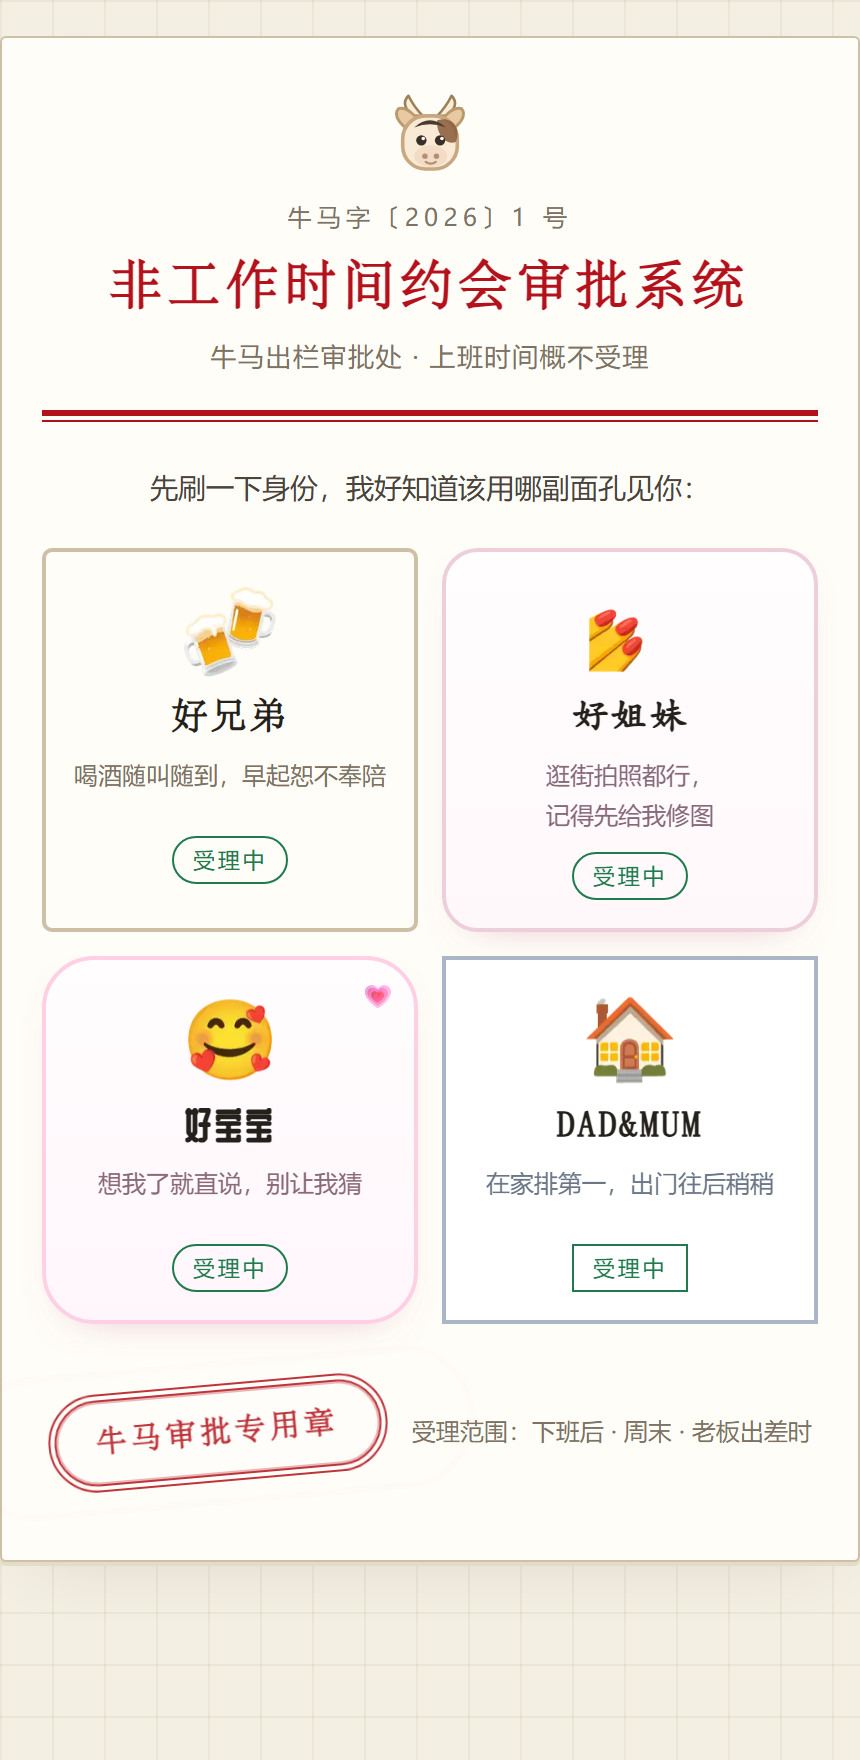
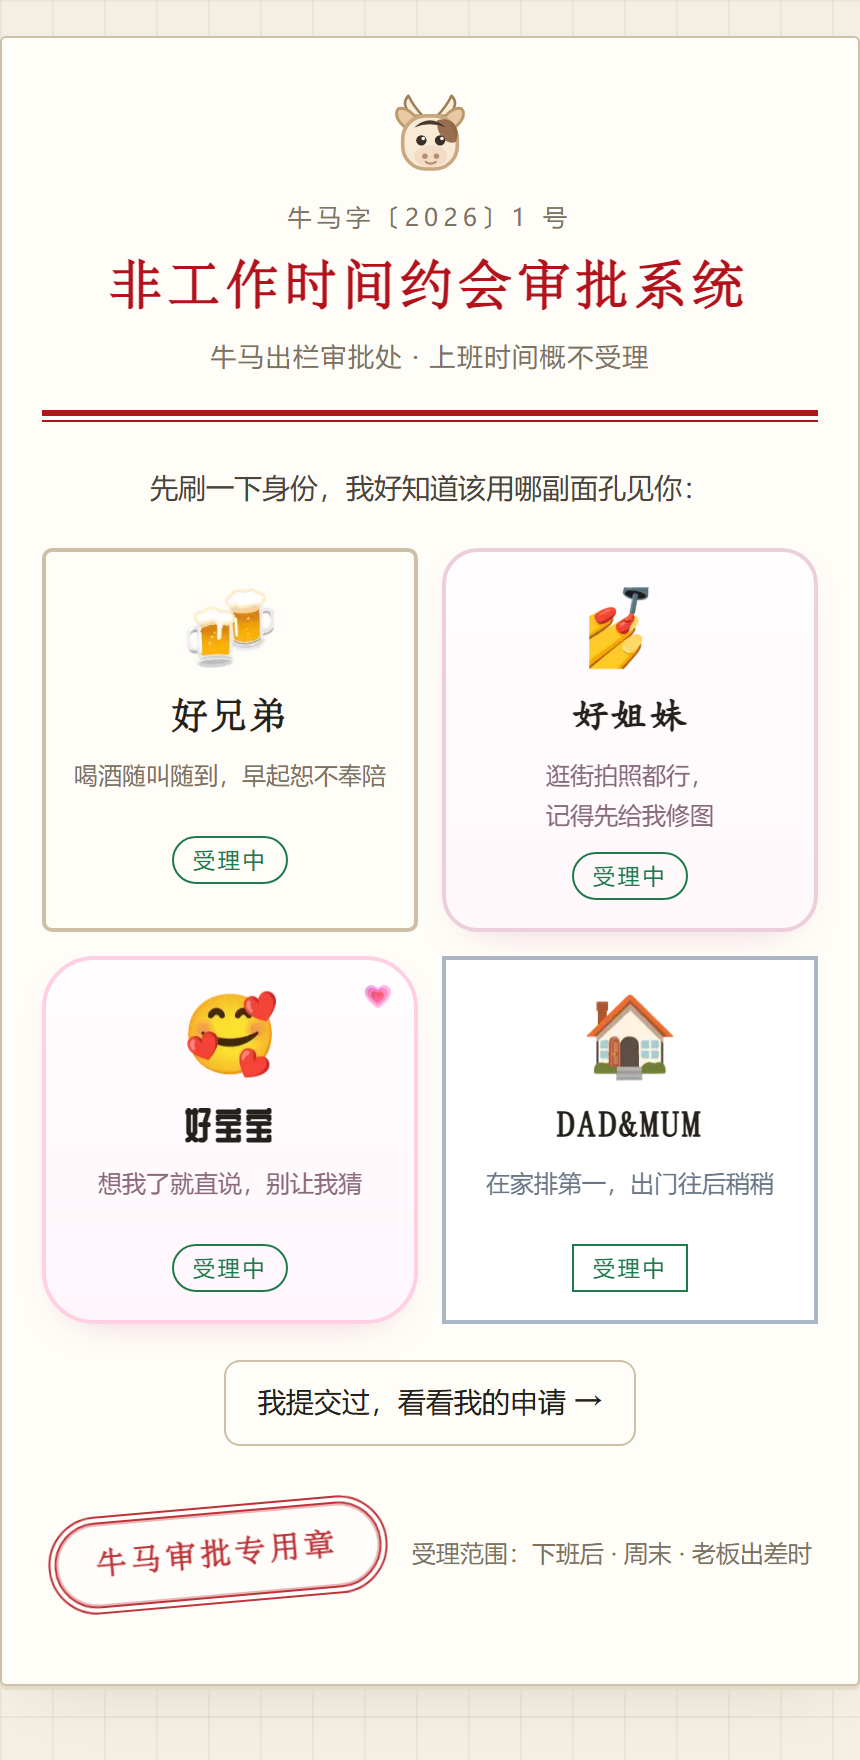
docs: 完整更新 —— 重截 6 张图 + 补齐这一轮所有功能和决策
截图（全部重新截，界面这几轮变了不少）
- 01 选身份 / 02 好宝宝日历 / 03 时段
- 04 后台 / 05 我的申请（新）/ 06 驳回结果（新）

README
- 截图区从 4 张扩到 6 张，每张配一句说明
- 开头补上「再进来不用重选」和「认浏览器不认账号」的提示

FEATURES.md
- 修正两处过时描述：「重新填一份」不再回入口页；躲闪窗口 3 秒 → 5 秒
- 新增「我的申请」页与路由规则
- 新增三节：手机端健壮性 / 部署与运维 / 安全
  （每一条都是真实事故换来的）

REQUIREMENTS.md
- 新增「路由：有申请就先看结果」——含两条重定向必须严格互补的原因（否则死循环）
- 新增「认浏览器不认账号：代价要讲清楚」
- 新增「一个真实的手机端事故」——白屏的根因与四条教训

diff --git a/docs/FEATURES.md b/docs/FEATURES.md
@@ -40,16 +40,20 @@
 - [x] 第 4 页：地点 + 【你定吧】躲闪按钮
 - [x] 第 5 页：**见面要求 + 留言**合成一页（都是自由文本，7 步 → 6 步）
 - [x] 全锁的一天给明确引导，并把「自己定一个时间」提成主按钮
-- [x] 步进条下面提示「填一半关掉也不怕」，并显示「已选 N 个时间」（**每次慢挪一小步就停**，3 秒内的点击只让它再挪一步，之后自己回原位，全程不出视口）
+- [x] 步进条下面提示「填一半关掉也不怕」，并显示「已选 N 个时间」（**每次慢挪一小步就停**，5 秒内的点击只让它再挪一步，之后自己回原位，全程不出视口）
 - [x] 第 5 页：留言
 - [x] 第 6 页：确认（可删掉某个时间 / 再加一个时间）→ 提交
 - [x] 提交成功页：「牛马正在骑马赶来的路上……」，只给「有问题微信联系牛马」的提示
 - [x] 回执**永远**显示牛马回复；好友自己提的见面要求也一并显示
 - [x] 提示文案分三行，「请直接微信联系牛马」单独一行且禁止折行
-- [x] 同设备再次进入显示已提交状态，直到**被驳回**或**约会日过了第 N 天**才放回填写
-- [x] **被驳回单独一屏**：显示原时间 + 牛马回复（一定展示）+「重新填一份」→ **回入口页从选身份开始**
+- [x] **有申请就先看结果**：点链接进来 / 点身份，只要这台设备交过单子，都先送去回执或驳回页 —— 以前被驳回的直接放回表单，好友**看不到牛马写的意见**，会以为申请没了
+- [x] 两条重定向**条件严格互补**（填写页→状态页当「驳回 或 还有效」；状态页→填写页当「过期 且 不是驳回」），数学上不可能来回弹
+- [x] **被驳回单独一屏**：显示原时间 + 牛马回复（一定展示，支持换行）
+- [x] 「重新填一份」**直接进这个身份的表单**（带 `?again=1`），不用再选一遍身份；旁边还有「换个身份」→ `/?pick=1`
 - [x] 重新填写时**复用上次的昵称 / 地点 / 留言**（不带时间，避免误选掉不能用掉的时段）
 - [x] 回执上说明「这份只存在本机浏览器里」，把换设备的情况引到微信
+- [x] **「我的申请」页（`/mine`）**：列出台设备交过的全部申请，点进看各自的结果；首页和状态页都有入口，页底能回首页
+- [x] **找不到时正面解释原因**（换浏览器 / 清缓存 / 无痕 / 禁用存储），并强调「你交过的申请，牛马那边一直都留着」—— 与其让好友一脸懵，不如把「认浏览器不认账号」的代价讲清楚
 - [x] 待审批 / 已通过 / 已驳回三套文案 + 对应小人（🥵 / 🥳 / 😭 带落泪动画，纯 CSS）
 - [x] **暂停营业总开关**：入口页与填写页整屏拦掉，已交过的人仍能看回执，后端也拒绝新提交
 - [x] 暂停营业页做成**小店拉闸关门**：卷帘门下落带回落、落定后高光扫过、营业灯绿转红、
@@ -162,3 +166,46 @@
 - [ ] 自动化测试（Vitest + Fastify inject）
 - [ ] ESLint + Prettier
 - [ ] CI
+
+## 手机端健壮性
+
+这一节的每一条都是**真实事故换来的**，不是在防假想敌。
+
+- [x] **所有 localStorage 读写走 `safeStorage`**：手机浏览器里它会**直接抛异常**
+      （微信内置浏览器、无痕模式、用户禁用存储、配额满），不是优雅地返回 null。
+      以前 `getDeviceId()` 没兜住 —— 入口页正常（不碰存储），一点进「选日期」就**整页白屏**。
+      好友只会以为链接坏了。现在拿不到就当「这台设备没有存储」，功能降级但不崩
+- [x] **`crypto.randomUUID` 有退路**：iOS 15.4 以下的 Safari / 微信内置浏览器里没有这个函数，
+      直接调会抛「not a function」。退回时间戳 + 随机数（这个 id 只是认人用的，不需要密码学强度）
+- [x] **React 错误边界**：渲染时任何一次异常，默认结果是整棵树卸载 → 一片白屏。
+      现在至少能看到「页面出了点问题 + 刷新」，技术细节进控制台
+- [x] **`index.html` 里放静态兜底**：JS 文件加载失败时（网络断、隧道挂、网关 502）
+      显示「正在打开… 要是停在这儿不动，下拉刷新一下」，而不是一整片空白
+- [x] **接口挂掉时不给好友看开发者的话**：以前会显示「后端起了吗？本地开发要先跑 pnpm dev」，
+      好友看到只会以为自己操作错了。现在是「暂时连不上，下拉刷新一下试试」
+
+## 部署与运维
+
+- [x] **`docker compose` 一条命令起停**，数据在独立的数据卷里；`down -v` 才真的删干净
+- [x] **镜像内置日志轮转**（`max-size 5m` × 3）：Docker 默认**不限制日志大小**，
+      长期跑会把磁盘写满
+- [x] **容器里默认打开 `TRUST_PROXY`**：不开的话请求源 IP 全是 Docker 网关，
+      **所有好友在限流眼里是同一个人**，一个人刷几条就把大家全挡了
+- [x] **`start.cmd` / `stop.cmd`**：双击就起 / 停，自动找 cloudflared、打印公网地址和后台口令。
+      `.cmd` 保持**纯 ASCII**（cmd.exe 按系统 ANSI 读批处理，UTF-8 中文会乱码并拆坏行），
+      中文全放带 BOM 的 `.ps1` 里
+- [x] **命名隧道优先**：`~/.cloudflared/config.yml` 存在就用它 —— 地址是**固定域名**；
+      没有才退回快速隧道（地址随机、重启就变）
+- [x] **`scripts/sandbox.mjs`**：不装 Docker 也能起一个「删掉就干净」的演练环境
+      （换端口 + 换数据目录，不复制代码）
+- [x] **三份部署文档**：`PUBLISH.md`（两条路怎么选 / 口令在哪找 / 验收清单）、
+      `DEPLOY.md`（服务器十步）、`TUNNEL.md`（隧道，含每一步的验证命令）
+
+## 安全
+
+- [x] **口令与会话密钥没有默认值**：这个仓库是公开的，任何写死的默认值都等于公开。
+      没配就**随机生成、落盘、启动时打印一次**。会话密钥尤其危险 ——
+      知道它的人可以**自己签一个合法 token**，连口令都不用猜
+- [x] 生成的口令字母表**不含 `0 O 1 I l`**，抄写不易错
+- [x] 后台登录限流（默认 10 分钟 40 次）；被限流时冒烟会**直接说清楚**，不再级联成 25 个 401
+- [x] **去敏感信息**：文档里不再出现真实口令、会话密钥、本机绝对路径、作者仓库地址

diff --git a/docs/REQUIREMENTS.md b/docs/REQUIREMENTS.md
@@ -758,3 +758,70 @@ export function copiesFor(config: AppConfig, roleKey: RoleKey | undefined): Copi
 - 公章的具体字样（文号已定：自动生成，见第 10 节）
 - 是否要「已读 / 未读」标记
 - 部署细节（域名、备案、HTTPS 方案）
+
+## 路由：有申请就先看结果
+
+**问题**：好友被驳回后点同一个身份，直接进了一张空表单 ——
+他**看不到牛马写的意见**，只会以为自己的申请凭空没了。
+
+**规则**（三条，缺一不可）：
+
+| 进哪 | 有申请时 | 没申请时 |
+| --- | --- | --- |
+| `/`（点链接进来） | 送去自己的状态页 | 显示身份卡 |
+| `/date/<身份>` | 送去状态页（先看结果） | 表单 |
+| `/date/<身份>?again=1` | 表单（「重新填一份」走这个） | 表单 |
+
+**⚠ 两条重定向的条件必须严格互补**：
+
+```
+填写页 → 状态页   当：  驳回  ||  单子还有效
+状态页 → 填写页   当： !还有效 && !驳回
+```
+
+写成「只要有过单子就跳状态页」会**死循环** ——
+状态页会说「约会日过了，去重填」，填写页又把人送回来。
+（第一版就是这么写的，推到条件的时候才看出来。）
+
+**「换个身份」**走 `/?pick=1`。没有这个逃生口，入口页会自动跳走、
+用户点回来又被跳走，观感像卡死。
+
+## 认浏览器不认账号：代价要讲清楚
+
+好友端**不登录**（这是刻意的：不用注册、不用下载、点开就能填）。
+代价是**认人靠浏览器里存的随机编号**，而那个编号会没：
+
+| 什么时候会没 |
+| --- |
+| 换了浏览器 / 换了手机 |
+| 清了浏览器缓存（微信「清理缓存」也算） |
+| 无痕 / 隐私模式 |
+| 浏览器禁用了网站存储 |
+
+**产品决定：与其让好友一脸懵，不如正面讲清楚。**
+
+所以有了「我的申请」页（`/mine`）：找不到时明确列出上面这几种情况，
+说明「不用注册」就是这个代价，**并强调「你交过的申请，牛马那边一直都留着」**。
+
+最后那句最重要 —— 好友「明明交过却找不到」时，
+最怕的是以为**没交成功**或者**数据丢了**。得先把这个恐惧解掉，再谈别的。
+
+## 一个真实的手机端事故
+
+好友反馈「首页能进，选完角色就白屏」。
+
+**根因**：`getDeviceId()` 里读 `localStorage` 没兜住异常。
+手机浏览器（微信内置 / 无痕 / 禁用存储）会让它**直接抛异常**，
+一抛 → React 整棵树卸载 → 整页白屏。
+
+**为什么这个特征这么典型**：入口页不碰存储，所以能开；
+一进填写页就要读设备号，就崩。**「哪一页白」本身就是最强的线索。**
+
+**教训**：
+
+1. **浏览器存储不是「一定会成功」的 API**，该包 try/catch 的地方要包
+2. **`crypto.randomUUID` 也不是到处都有**（iOS 15.4 以下的 Safari / 微信内置浏览器）
+3. **白屏是最难排查的失败形态** —— 所以后来还加了错误边界和静态兜底，
+   宁可显示一句人话，也不要一片空白
+4. **能复现的 bug 才算修好的 bug**：用无头浏览器模拟「localStorage 抛异常」，
+   修之前 1 个元素、修之后 112 个元素，一眼就能验证

diff --git a/README.md b/README.md
@@ -3,8 +3,9 @@
 一个发给好友的约会时间选择页面，外加一个极简审批后台。内部代号「牛马出栏审批单」。
 
 - **用户端**：一个链接打开 → 选身份 → 选日期和时段（工作时段会被「冻住」）→ 填地点和留言 → 提交
+- **再进来不用重选**：交过申请之后，点链接直接回到你自己的回执 / 驳回结果；想看全部申请去 `/mine`
 - **后台**：口令登录 → 审批列表 / 改状态 / 备注 / 删除 / 导出，以及改系统配置（改完立即生效，不用发版）
-- **不需要登录**：好友端不登录，用浏览器 localStorage 里的随机设备号记住自己的申请
+- **不需要登录**：好友端不登录，用浏览器里的随机编号记住自己的申请（代价见「我的申请」那一页的说明）
 
 需求口径与已拍板的决定见 `docs/REQUIREMENTS.md`，功能实现状态见 `docs/FEATURES.md`。
 
@@ -15,12 +16,18 @@
 | ![选身份](docs/shots/01-choose-identity.png) | ![日历](docs/shots/02-calendar-baby.png) |
 | 四套身份各有各的一套皮：字体、配色、动效都不同 | 底色只说「有没有空」，休息日和今天用小标记 |
 
-| 选时段 | 后台 |
+| 选时段 | 我的申请 |
 | --- | --- |
-| ![时段](docs/shots/03-slots.png) | ![后台](docs/shots/04-admin.png) |
-| 工作时间段会被「冻住」，选不了 | 审批列表支持按约会日期排序、按日期窗口筛选 |
+| ![时段](docs/shots/03-slots.png) | ![我的申请](docs/shots/05-my-applications.png) |
+| 工作时间段会被「冻住」，选不了 | 交过什么、批没批，一页看完；找不到时正面说明原因 |
 
-> 上表第二张是「好宝宝」那套皮。另外三套（好兄弟 / 好姐妹 / DAD&MUM）风格完全不同。
+| 驳回结果 | 后台 |
+| --- | --- |
+| ![驳回](docs/shots/06-rejected.png) | ![后台](docs/shots/04-admin.png) |
+| 审批意见原样换行显示；「重新填一份」直接进表单，不用再选一遍身份 | 按约会日期排序、按日期窗口筛选、批量操作、导出 |
+
+> 上面是「好宝宝」那套皮。另外三套（好兄弟 / 好姐妹 / DAD&MUM）风格完全不同 ——
+> 字体、配色、动效各一套，连「中午太热」「晚上太冷」的抱怨口吻都不一样。
 
 ## 技术栈
 
